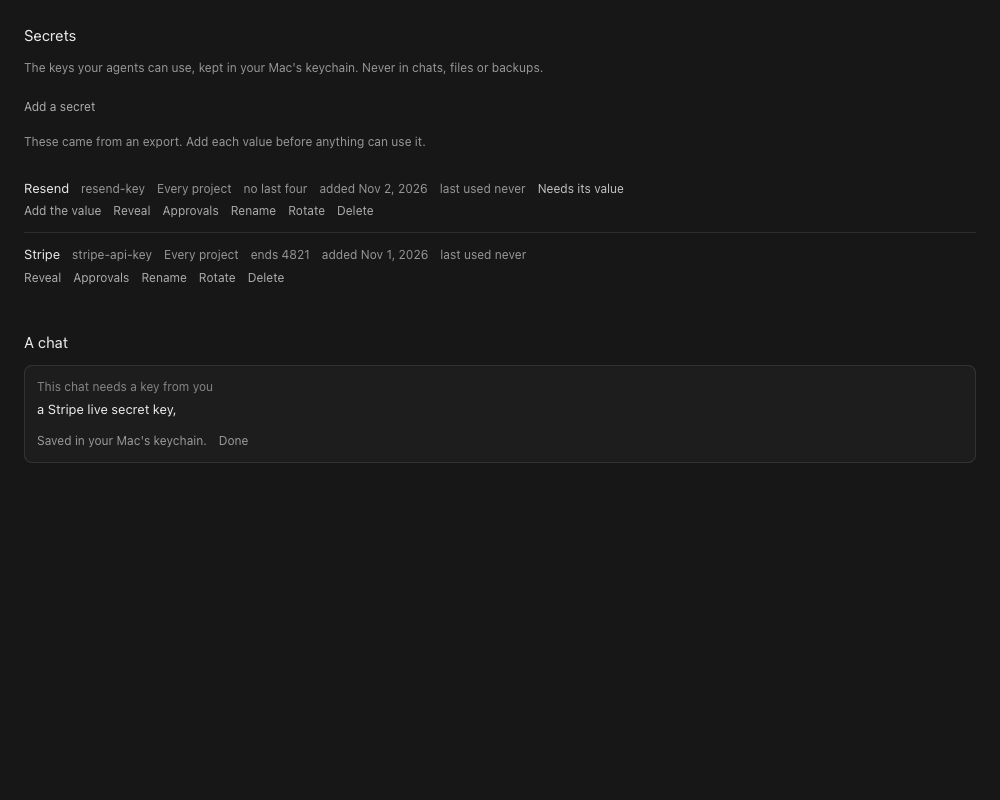
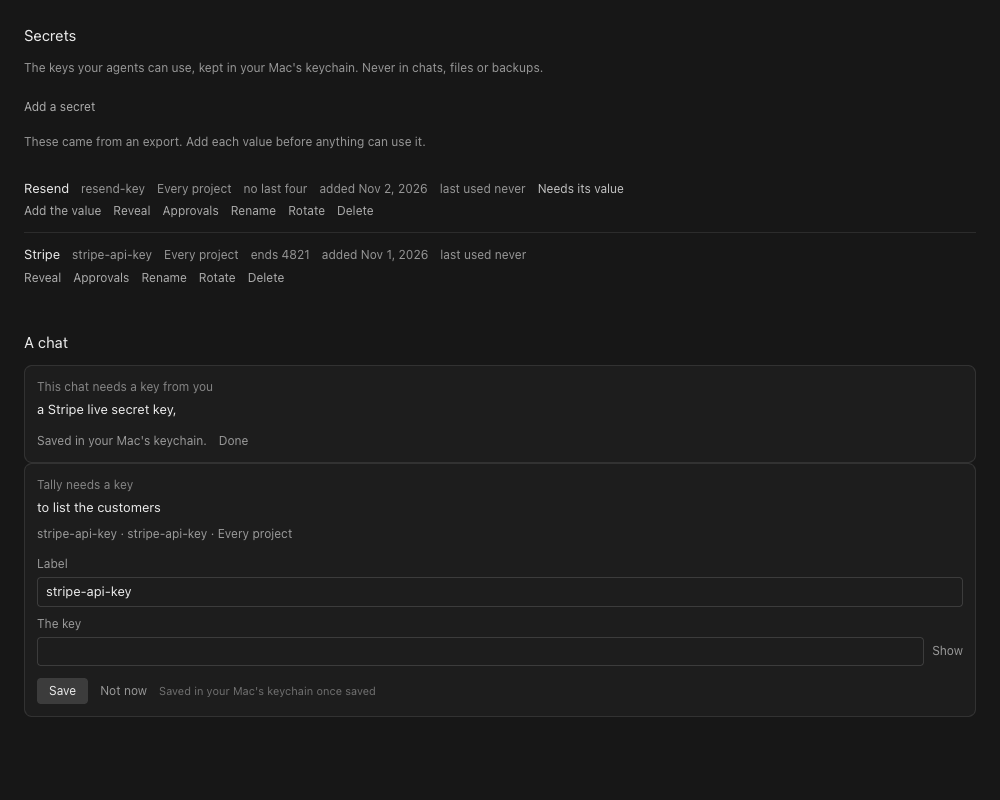
Keep a key request's save ticket through a StrictMode remount
The app mounts every card under StrictMode, so the request card's open ->
saving effect runs twice. The second run was refused by the store and the
card said "That card is no longer open.", leaving the person unable to save.

One claim per request is now shared by every mount of its card: the second
effect run reuses the first run's ticket instead of asking again, and a
settled claim is dropped so a card that really closed can try again. The
browser fixture mounts the real card under StrictMode and the spec proves
the field works and the saved row's last four shows with no value on the page.

Changed region(s): [[0.031, 0.5938, 0.279, 0.7812], [0.031, 0.8438, 0.186, 0.9062], [0.217, 0.8438, 0.372, 0.875]]

diff --git a/tests/browser/wp92-secrets.tsx b/tests/browser/wp92-secrets.tsx
@@ -5,6 +5,7 @@ import { StrictMode } from "react";
 import { createRoot } from "react-dom/client";
 import { SecretsPage } from "../../src/features/secrets/ui/SecretsPage";
 import { SecretKeyAsk } from "../../src/features/secrets/ui/SecretKeyAsk";
+import { SecretRequestCard } from "../../src/features/secrets/ui/SecretRequestCard";
 import "../../src/styles/index.css";
 import { installFakeTauri } from "./fakeTauri";
 
@@ -73,13 +74,62 @@ const last4 = (value: unknown) => {
   return text.length >= 12 ? text.slice(-4) : null;
 };
 
-installFakeTauri("secrets-fixture", (command, args) => {
+const pendingRequest = {
+  id: "req-1",
+  chat: "chat-1",
+  mono: "Tally",
+  project: null,
+  scope: "global",
+  name: "stripe-api-key",
+  why: "to list the customers",
+  state: "open",
+  createdAt: Date.UTC(2026, 10, 5),
+  updatedAt: Date.UTC(2026, 10, 5),
+};
+let pendingSave = false;
+let beginCalls = 0;
+
+const tauri = installFakeTauri("secrets-fixture", (command, args) => {
   const cmd = command.replace("plugin:hub|", "");
   switch (cmd) {
+    case "secrets_begin_save":
+      beginCalls += 1;
+      if (beginCalls > 1) throw new Error("That key was already saved.");
+      pendingSave = true;
+      return { request: { ...pendingRequest, state: "saving" }, token: "tok-fixture" };
+    case "secrets_save": {
+      // Saving a request for a name that already has a row replaces that row's value, as the real store does.
+      const existing = rows.find((row) => row.scope === "global" && row.name === pendingRequest.name);
+      const row: FixtureRow = existing ?? {
+        scope: "global",
+        name: pendingRequest.name,
+        label: pendingRequest.name,
+        last4: null,
+        createdAt: Date.UTC(2026, 10, 5),
+        updatedAt: Date.UTC(2026, 10, 5),
+        lastUsedAt: null,
+        version: 0,
+        approved: [],
+        executables: [],
+        envFiles: [],
+        needsValue: false,
+      };
+      row.label = String(args.label ?? row.label);
+      row.last4 = last4(args.value);
+      row.version += 1;
+      if (!existing) rows.unshift(row);
+      pendingSave = false;
+      // The store tells every window its list changed; the page reloads on it.
+      queueMicrotask(() => tauri.emit("hivra:secrets-changed", null));
+      return { ...row };
+    }
+    case "secrets_decline":
+      pendingSave = false;
+      return null;
     case "secrets_list":
       return rows.map((row) => ({ ...row }));
     case "secrets_requests":
-      return [];
+      return pendingSave ? [{ ...pendingRequest, state: "saving" }] : [];
     case "secrets_save_new": {
       const row: FixtureRow = {
         scope: String(args.scope),
@@ -160,6 +210,7 @@ createRoot(document.getElementById("root")!).render(
         <section aria-label="Chat">
           <h2 className="mb-3 text-[15px] text-content">A chat</h2>
           <SecretKeyAsk chat={chat} />
+          <SecretRequestCard request={pendingRequest} onDone={() => {}} />
         </section>
       </div>
     </div>

diff --git a/src/features/secrets/ui/SecretRequestCard.test.ts b/src/features/secrets/ui/SecretRequestCard.test.ts
@@ -1,5 +1,5 @@
 // @vitest-environment happy-dom
-import { act, createElement } from "react";
+import { act, createElement, StrictMode } from "react";
 import { createRoot } from "react-dom/client";
 import { beforeEach, expect, it, vi } from "vitest";
 
@@ -29,12 +29,13 @@ const request = {
   updatedAt: 1,
 };
 
-async function render() {
+async function render(strict = false) {
   const container = document.createElement("div");
   document.body.append(container);
   const root = createRoot(container);
+  const card = createElement(SecretRequestCard, { request, onDone: () => {} });
   await act(async () => {
-    root.render(createElement(SecretRequestCard, { request, onDone: () => {} }));
+    root.render(strict ? createElement(StrictMode, null, card) : card);
   });
   return { container, root };
 }
@@ -42,6 +43,7 @@ async function render() {
 beforeEach(() => {
   document.body.innerHTML = "";
   beginSave.mockClear();
+  beginSave.mockImplementation(async () => ({ request: {}, token: "tok-1" }));
   saveRequest.mockClear();
 });
 
@@ -62,6 +64,33 @@ it("sends the value once and clears the field", async () => {
   expect(container.textContent).not.toContain(VALUE);
   expect(localStorage.length).toBe(0);
   expect(sessionStorage.length).toBe(0);
+});
+
+it("works under StrictMode: the second mount does not throw away the first ticket", async () => {
+  // The app mounts the card under StrictMode, which runs the open -> saving effect twice. One claim serves both mounts,
+  // so the store is asked once, the first ticket survives, and the card stays usable.
+  let calls = 0;
+  beginSave.mockImplementation(async () => {
+    calls += 1;
+    if (calls > 1) throw new Error("That key was already saved.");
+    return { request: {}, token: "tok-strict" };
+  });
+  const { container } = await render(true);
+  // One claim for the two mounts: the card never asks the store twice.
+  expect(calls).toBe(1);
+  expect(container.querySelector('[role="alert"]')).toBeNull();
+  const input = container.querySelector<HTMLInputElement>('input[type="password"]')!;
+  await act(async () => {
+    input.value = VALUE;
+  });
+  const save = [...container.querySelectorAll("button")].find((button) => button.textContent === "Save")!;
+  await act(async () => {
+    save.click();
+  });
+  expect(saveRequest).toHaveBeenCalledTimes(1);
+  expect(saveRequest.mock.calls[0]).toEqual(["req-1", "tok-strict", "stripe-api-key", VALUE]);
+  expect(container.textContent).not.toContain(VALUE);
+  expect(container.querySelector('[role="alert"]')).toBeNull();
 });
 
 it("a failed save shows one sentence, no value, and clears the field for a fresh card", async () => {

diff --git a/src/features/secrets/ui/SecretRequestCard.tsx b/src/features/secrets/ui/SecretRequestCard.tsx
@@ -13,6 +13,24 @@ export const SECRETS_CHANGED = "hivra:secrets-changed";
 const SAVED = "Saved in your Mac's keychain";
 const FAILED = "That key wasn't saved. Try again on a fresh card.";
 
+// One open -> saving claim per request, shared by every mount of its card. React StrictMode (main.tsx) mounts a card
+// twice, so the second effect run must reuse the first run's ticket rather than ask the store again and be refused.
+// A settled claim is dropped, so a card that really closed elsewhere can try again on a later mount.
+const claims = new Map<string, Promise<string>>();
+
+function claimSave(id: string): Promise<string> {
+  const held = claims.get(id);
+  if (held) return held;
+  const claim = beginSave(id)
+    .then((ticket) => ticket.token)
+    .catch((error: unknown) => {
+      if (claims.get(id) === claim) claims.delete(id);
+      throw error;
+    });
+  claims.set(id, claim);
+  return claim;
+}
+
 export function SecretRequestCard({
   request,
   onDone,
@@ -27,12 +45,13 @@ export function SecretRequestCard({
   const input = useRef<HTMLInputElement>(null);
   const token = useRef<string | null>(null);
 
-  // Take the open -> saving transition when the card opens: two windows can't both save the same request.
+  // Take the open -> saving transition when the card opens: two windows can't both save the same request. A second
+  // mount (StrictMode) shares the first mount's claim instead of being refused.
   useEffect(() => {
     let live = true;
-    beginSave(request.id)
+    claimSave(request.id)
       .then((ticket) => {
-        if (live) token.current = ticket.token;
+        if (live) token.current = ticket;
       })
       .catch(() => {
         if (live) setError("That card is no longer open.");
@@ -55,6 +74,7 @@ export function SecretRequestCard({
     setError(null);
     try {
       await saveRequest(request.id, token.current, label.trim() || null, value);
+      claims.delete(request.id);
       input.current.value = "";
       onDone();
     } catch {
@@ -70,6 +90,7 @@ export function SecretRequestCard({
     try {
       await declineRequest(request.id, token.current);
     } finally {
+      claims.delete(request.id);
       onDone();
     }
   };

diff --git a/tests/browser/wp92-secrets.spec.ts b/tests/browser/wp92-secrets.spec.ts
@@ -67,6 +67,22 @@ test("the Secrets page lists a key with its last four, reveals on a tap, renames
   await expect(page.getByText("resend-key", { exact: true })).toHaveCount(0);
 });
 
+test("the request card works while mounted under StrictMode, as the app mounts it", async ({ page }) => {
+  await page.goto("/tests/browser/wp92-secrets.html");
+  const card = page
+    .locator("section[aria-label='A key is needed']")
+    .filter({ has: page.locator("#secret-label-req-1") });
+  await expect(card).toBeVisible();
+  // No "no longer open" line from a double mount, and the field is usable.
+  await expect(page.getByText("That card is no longer open.")).toHaveCount(0);
+  const field = page.locator("#secret-value-req-1");
+  await field.fill(SAVED);
+  await card.getByRole("button", { name: "Save", exact: true }).click();
+  // The list shows the saved key's last four only; the value is nowhere on the page.
+  await expect(page.getByText(`ends ${SAVED.slice(-4)}`)).toBeVisible();
+  expect(await page.locator("body").innerText()).not.toContain(SAVED);
+});
+
 test("a dev copy's Secrets page says its list is the dev keychain's", async ({ page }) => {
   await page.goto("/tests/browser/wp92-secrets.html?dev");
   await expect(
@@ -81,7 +97,9 @@ test("the chat's key ask saves the value once and it is nowhere on the page afte
   // Not a text box that would become a chat message.
   await expect(page.locator("section[aria-label='A key is needed'] textarea")).toHaveCount(0);
 
-  const card = page.locator("section[aria-label='A key is needed']");
+  const card = page
+    .locator("section[aria-label='A key is needed']")
+    .filter({ has: page.locator("#secret-key-ask-value") });
   await card.locator("#secret-key-ask-value").fill(SAVED);
   await card.getByRole("button", { name: "Save", exact: true }).click();
   await expect(page.getByText("Saved in your Mac's keychain.")).toBeVisible();
